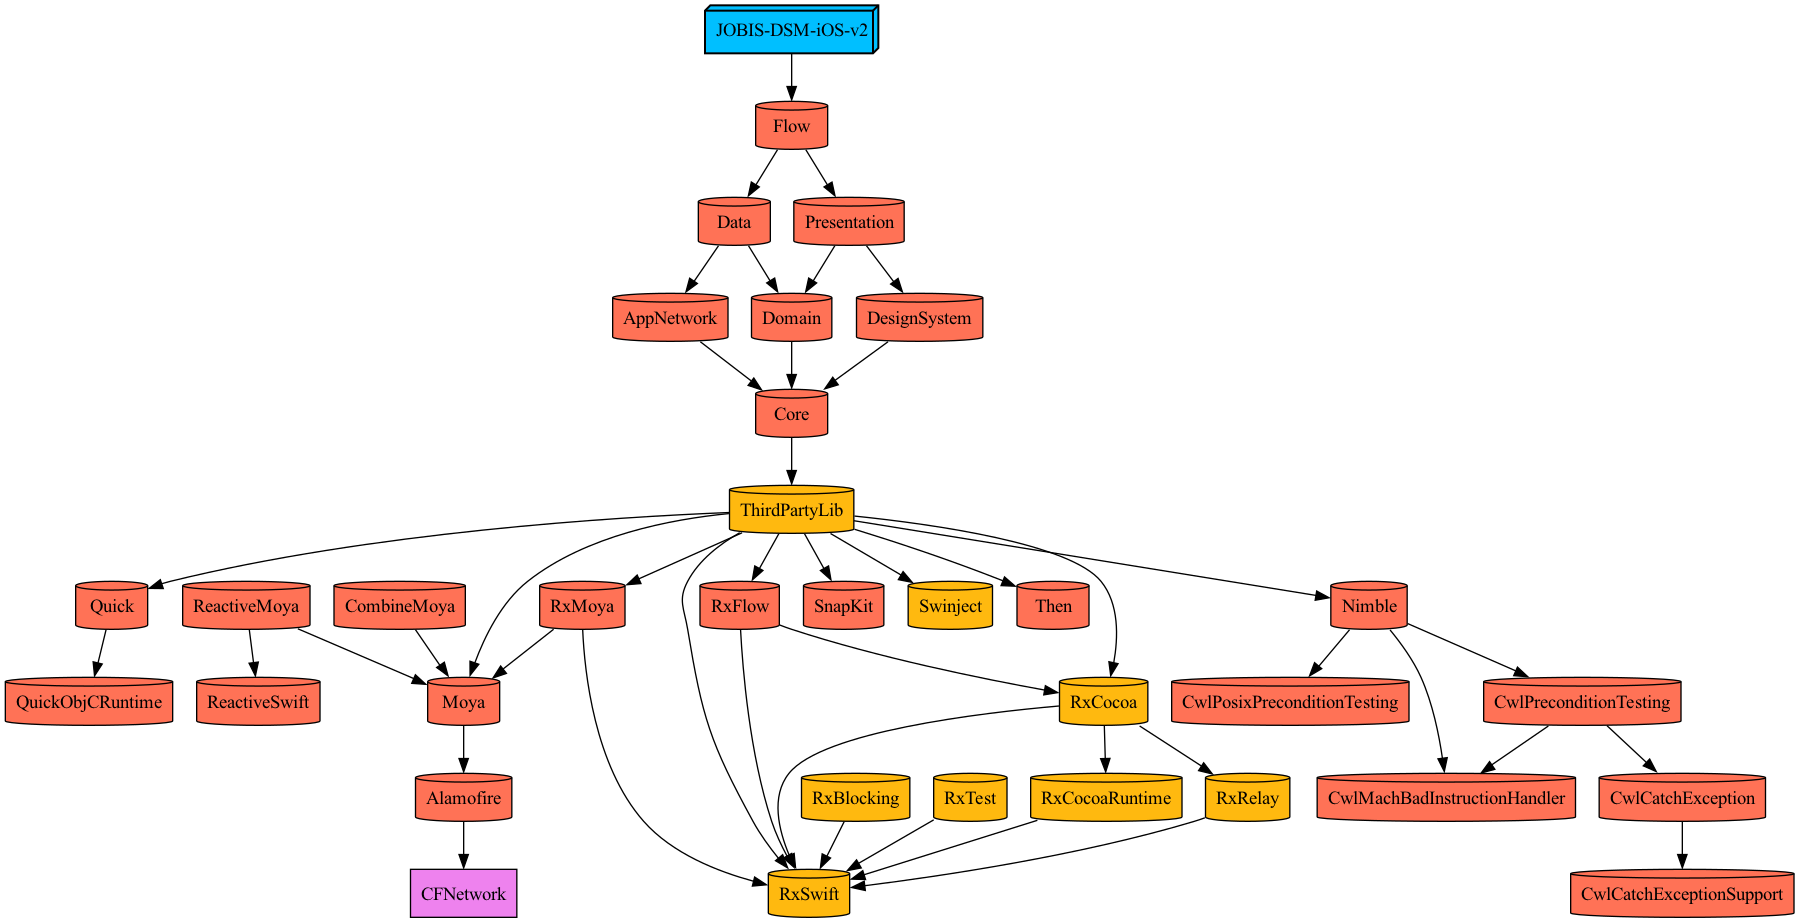
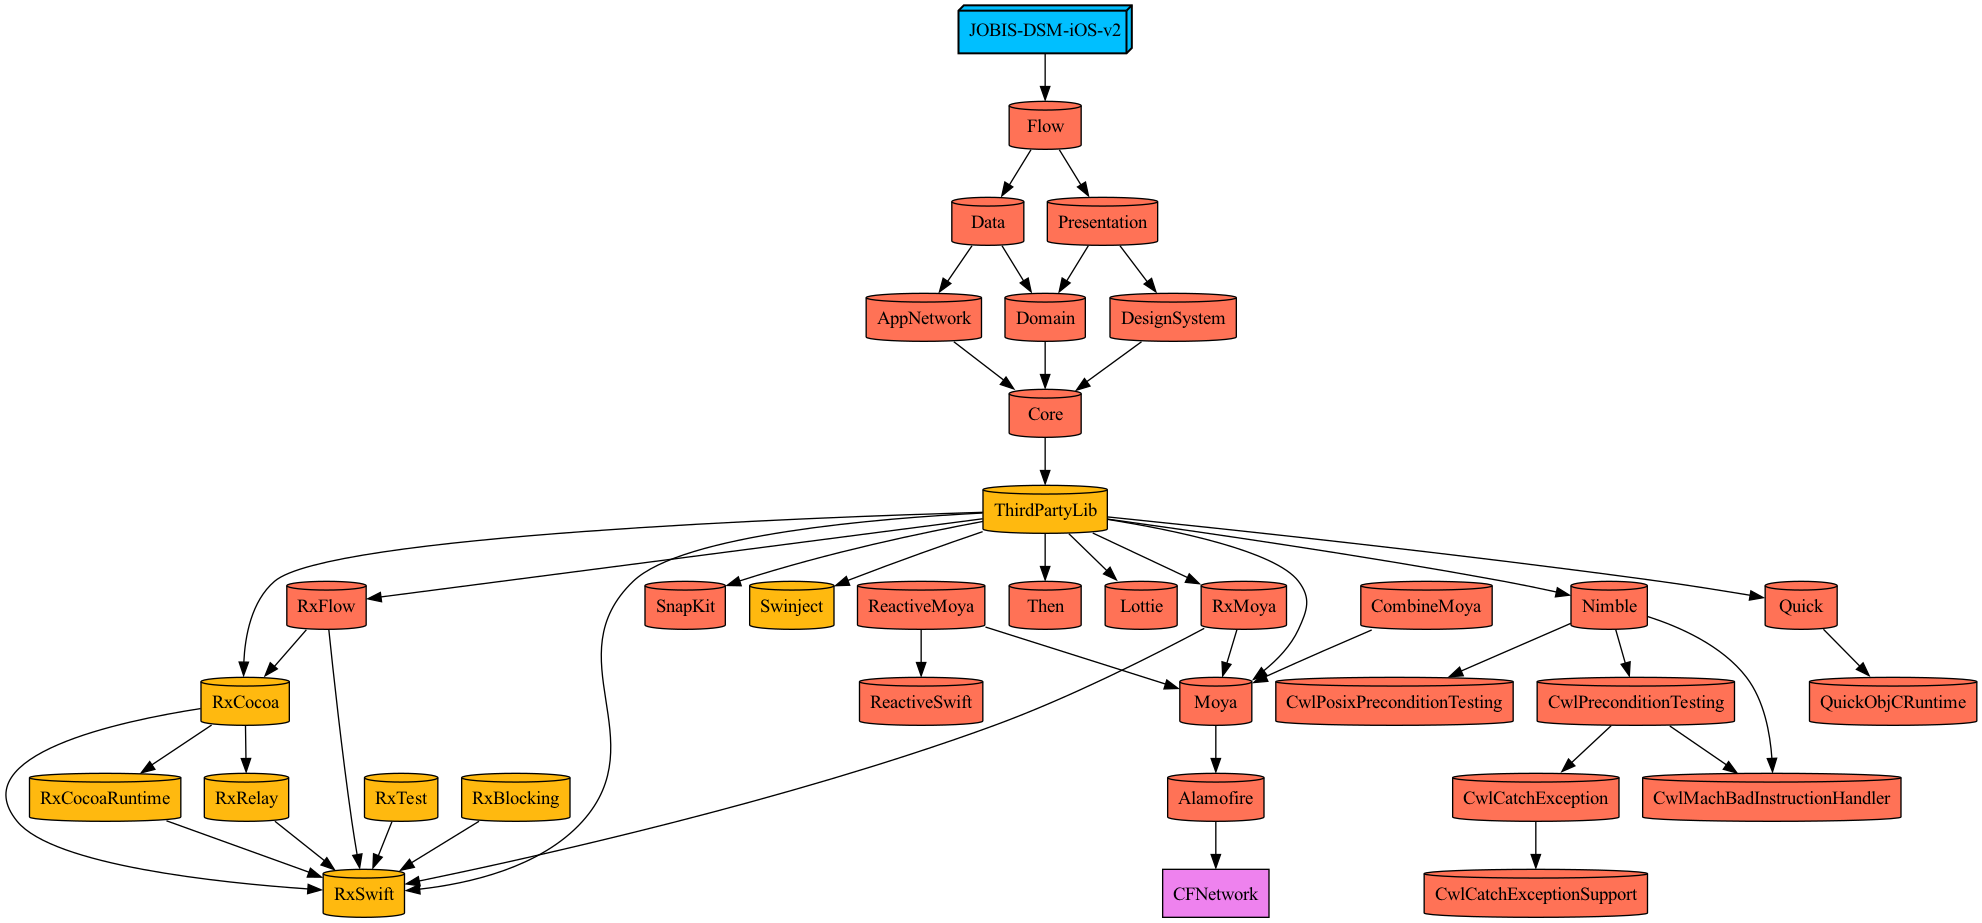
feat :: Lottie-ios SPM setting

diff --git a/Tuist/Dependencies.swift b/Tuist/Dependencies.swift
@@ -33,6 +33,10 @@ let dependencies = Dependencies(
         .remote(
             url: "https://github.com/Moya/Moya.git",
             requirement: .upToNextMajor(from: "15.0.0")
+        ),
+        .remote(
+            url: "https://github.com/airbnb/lottie-ios",
+            requirement: .upToNextMajor(from: "4.3.3")
         )
     ]),
     platforms: [.iOS]

diff --git a/Plugins/DependencyPlugin/ProjectDescriptionHelpers/Dependency+SPM.swift b/Plugins/DependencyPlugin/ProjectDescriptionHelpers/Dependency+SPM.swift
@@ -15,4 +15,5 @@ public extension TargetDependency.SPM {
     static let Swinject = TargetDependency.external(name: "Swinject")
     static let Moya = TargetDependency.external(name: "Moya")
     static let RxMoya = TargetDependency.external(name: "RxMoya")
+    static let Lottie = TargetDependency.external(name: "Lottie")
 }
